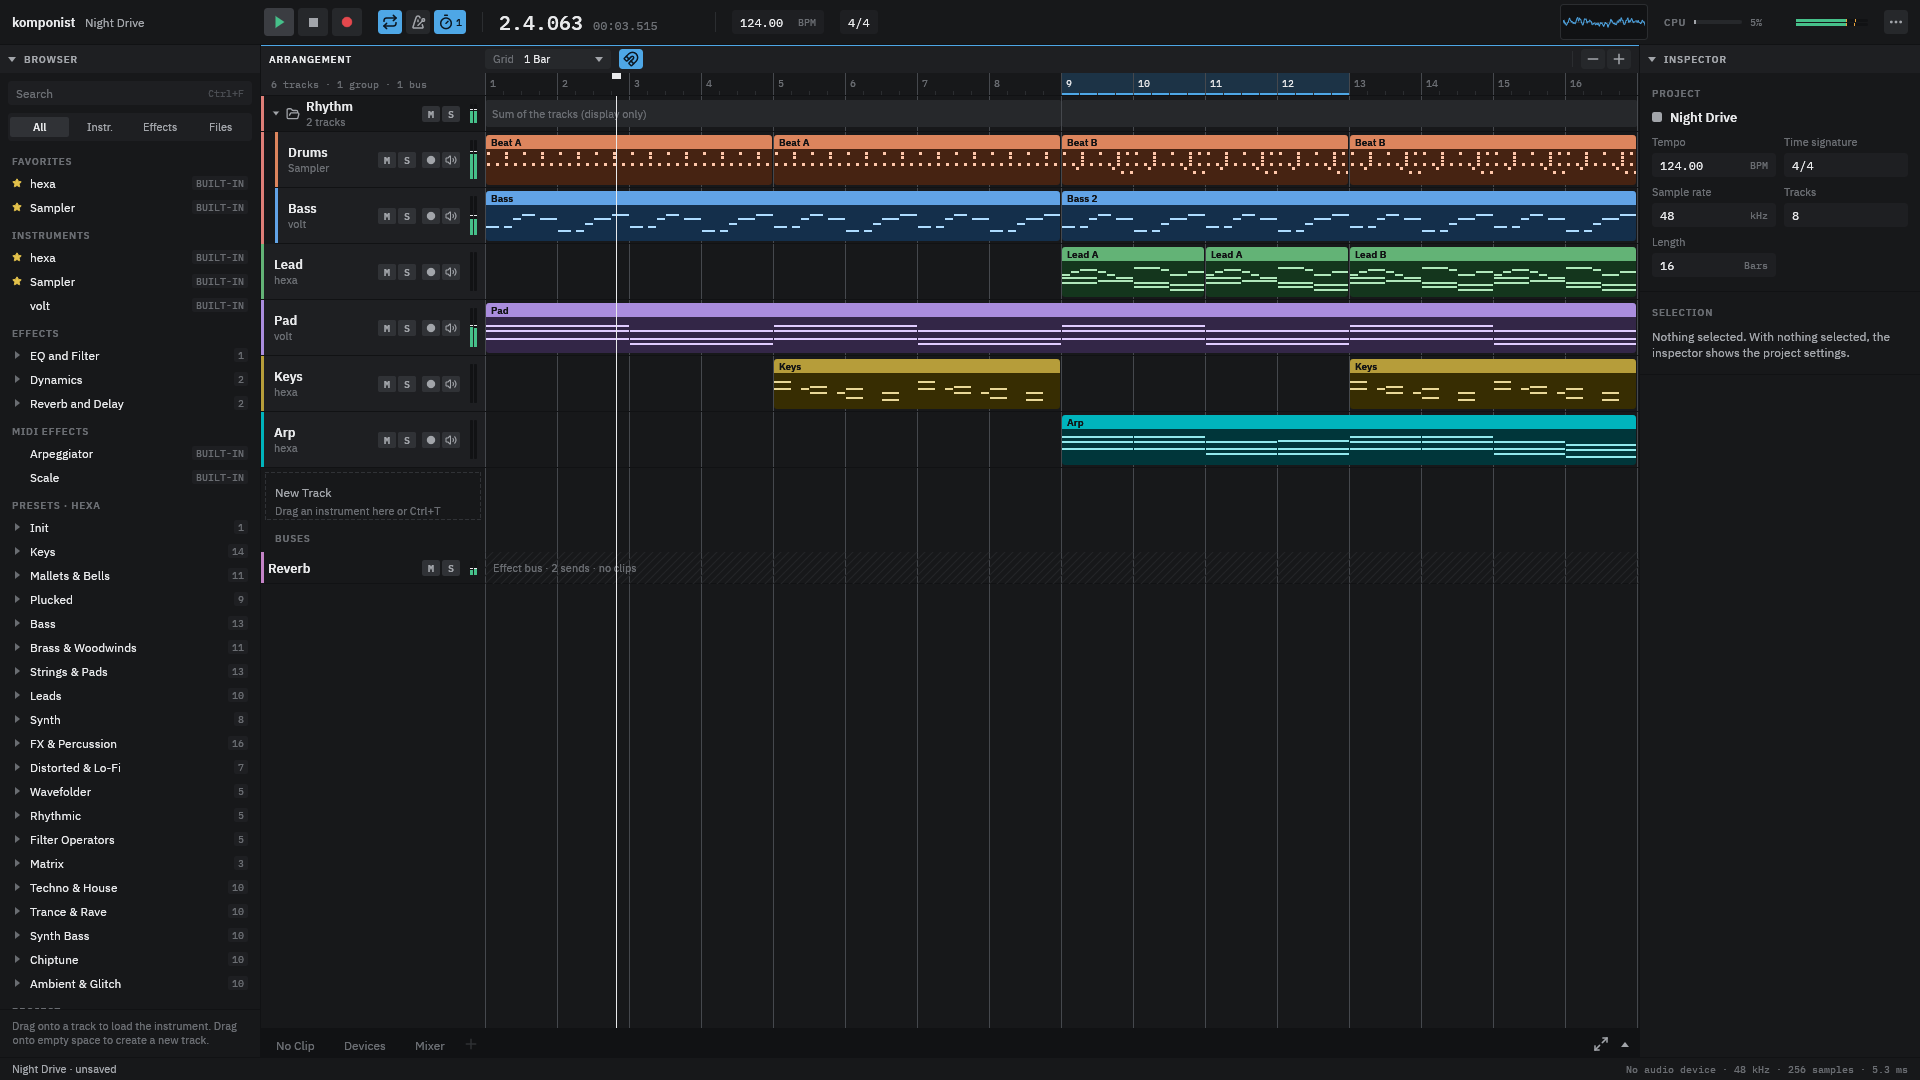
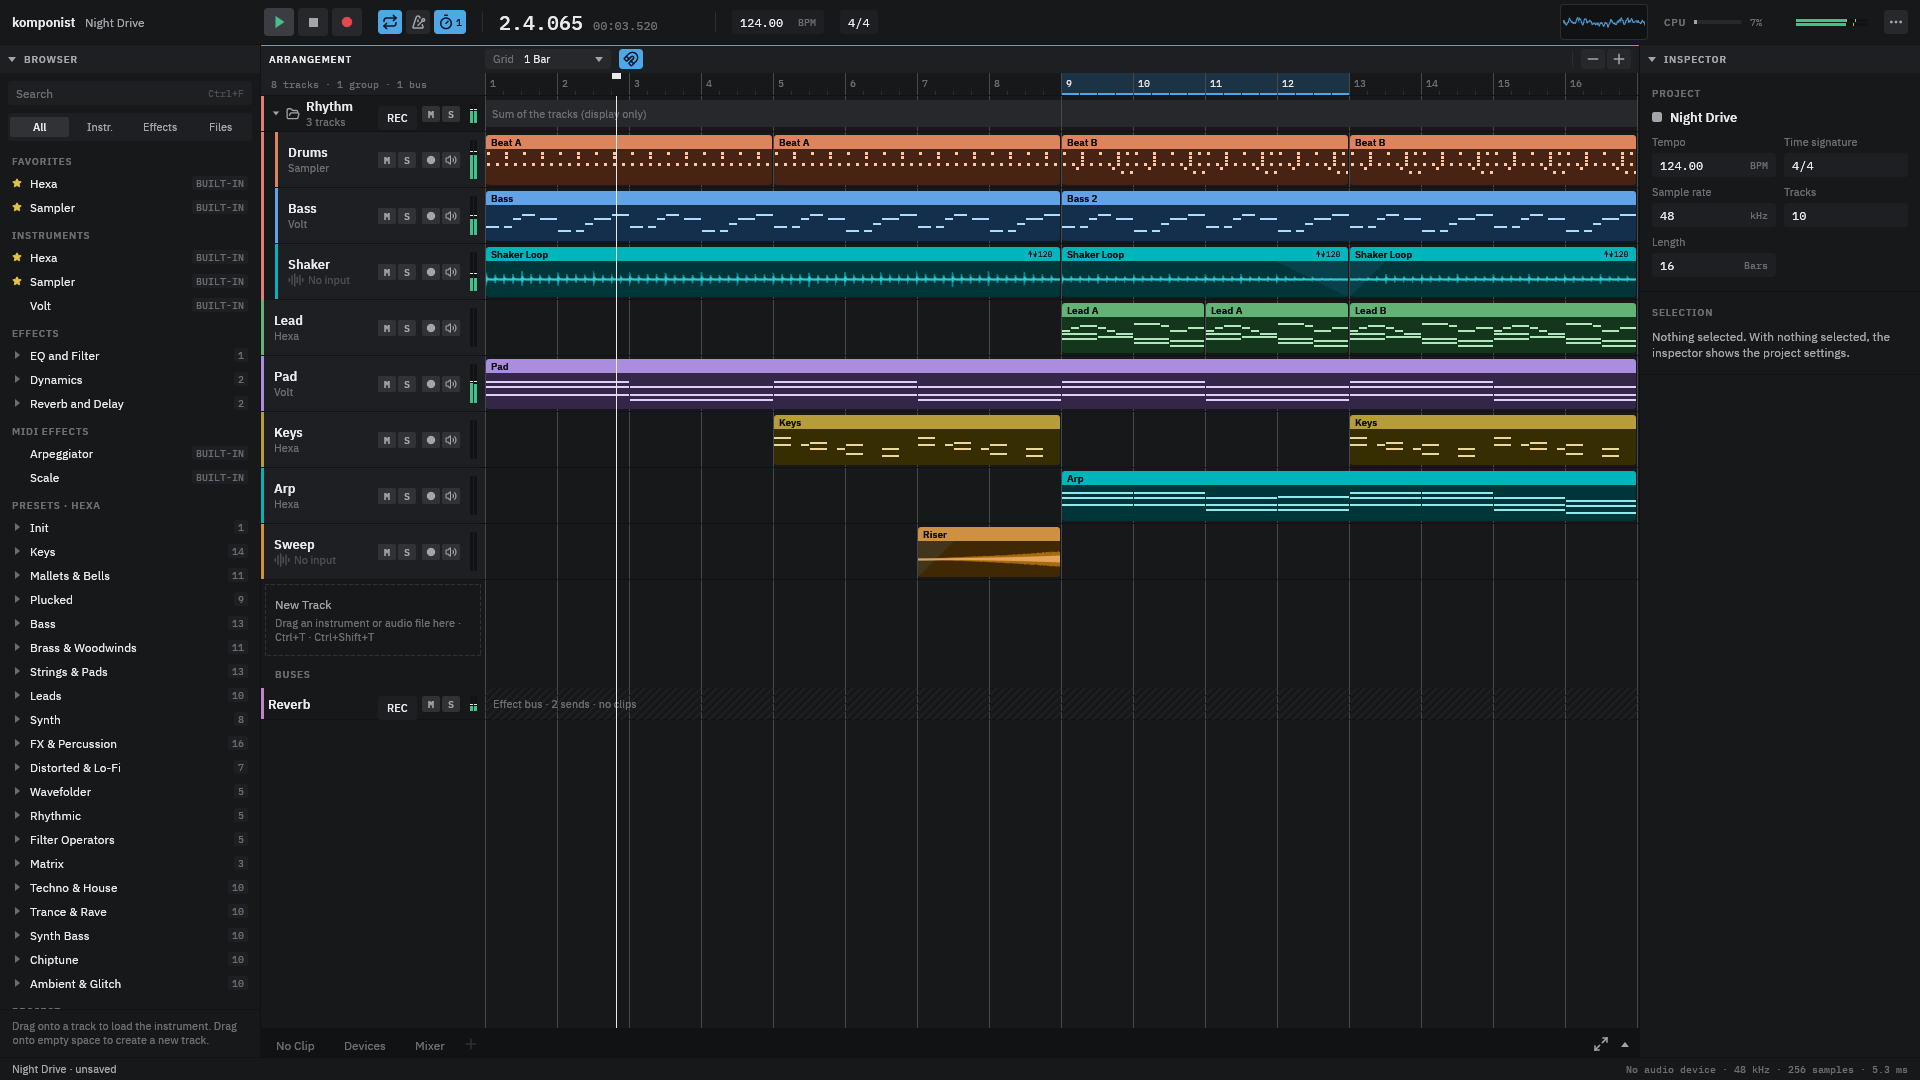
Document audio editing and recording with focused README media

diff --git a/scripts/readme-media/capture.py b/scripts/readme-media/capture.py
@@ -242,6 +242,12 @@ def dock_top(s):
     return int(s.bounds(role="Tab", label="Devices")["y"]) - 6
 
 
+def shot_dock(s, name):
+    """Capture the dock, including its tabs, without the browser, inspector or status bar."""
+    top = dock_top(s) + 4  # exclude the splitter and the last pixels of the arrangement above it
+    s.shot(name, crop=(DOCK_X, top, 1379, H - 22 - top))
+
+
 # -- scenarios ---------------------------------------------------------------------------------------------------------
 # Every scenario: a short docstring (printed), one fresh app, its own output files. GIF crops are (x, y, w, h) in
 # the 1920x1080 frame; the dock's top edge is read from the app, the rest is relative to it.
@@ -263,6 +269,34 @@ def arrangement(s):
     play(s)
     s.pause(3.5)
     s.shot("arrangement")
+    stop(s)
+
+
+def audio_editor(s):
+    """Linked audio: stereo source waveform, fades and clip properties (PNG)."""
+    s.click(role="Button", label="Collapse dock")
+    s.pause(0.5)
+    # An audio clip's centre is its gain line: double-clicking there resets gain instead of opening it.
+    b = s.bounds(role="GridCell", contains="Clip Riser,")
+    s.click_pos({"x": b["x"] + b["w"] / 2, "y": b["y"] + 8}, count=2)
+    s.click(role="Tab", label="Riser · Waveform")
+    open_dock(s, 450)
+    s.wait_for(role="Tab", label="Riser · Waveform")
+    s.pause(2.0)  # let the background waveform cache finish
+    shot_dock(s, "audio-editor")
+
+
+def audio_recording(s):
+    """Record the Rhythm bus into an audio track, with a live waveform (PNG)."""
+    s.click(role="Button", label="Record bus, Rhythm")
+    open_dock(s, 450)
+    s.click(role="Button", label="Count-in 1")
+    s.click(role="Button", label="Loop")
+    s.click(role="Button", label="Record")
+    s.wait_for(role="Group", label="Waveform · live")
+    s.pause(3.0)
+    s.find(role="Group", label="Waveform · live")
+    s.shot("audio-recording")
     stop(s)
 
 
@@ -372,13 +406,13 @@ def eq_spectrum(s):
 
 
 def mixer(s):
-    """Mixer tab with the arrangement above, playing (PNG)."""
+    """Only the mixer dock, playing (PNG)."""
     open_dock(s, 380)
     s.click(role="Tab", label="Mixer")
     s.click_pos({"x": 1068, "y": 83})
     play(s)
     s.pause(4.0)
-    s.shot("mixer")
+    shot_dock(s, "mixer")
     stop(s)
 
 
@@ -400,7 +434,8 @@ def add_device(s):
     s.gif("add-device", (DOCK_X + 300, top, 1340, 330), 1040, fps=12, trim=(0.4, None))
 
 
-SCENARIOS = [hero, arrangement, piano_roll, step_sequencer, devices, sidechain, eq_spectrum, mixer, add_device]
+SCENARIOS = [hero, arrangement, audio_editor, audio_recording, piano_roll, step_sequencer, devices,
+             sidechain, eq_spectrum, mixer, add_device]
 
 
 def main():

diff --git a/README.md b/README.md
@@ -6,21 +6,22 @@
   </picture>
 </p>
 
-<p align="center"><b>A MIDI DAW for Linux, macOS and Windows. Fast, small, and made for writing music.</b></p>
+<p align="center"><b>An audio and MIDI DAW for Linux, macOS and Windows. Fast, small, and made for writing music.</b></p>
 
 <p align="center">
   <a href="https://github.com/klang-studio/komponist/actions/workflows/ci.yml"><img alt="CI" src="https://github.com/klang-studio/komponist/actions/workflows/ci.yml/badge.svg"></a>
   <a href="LICENSE"><img alt="License: GPL-3.0-or-later" src="https://img.shields.io/badge/license-GPL--3.0--or--later-blue"></a>
   <img alt="Platform: Linux, macOS and Windows" src="https://img.shields.io/badge/platform-Linux%20%7C%20macOS%20%7C%20Windows-informational">
-  <img alt="Status: early, v0.2" src="https://img.shields.io/badge/status-early%20(v0.2)-orange">
+  <img alt="Status: early development" src="https://img.shields.io/badge/status-early%20development-orange">
   <img alt="Written in Rust" src="https://img.shields.io/badge/written%20in-Rust-b7410e">
 </p>
 
 ![komponist with the demo project "Night Drive": arrangement, piano roll and track meters while the transport plays](docs/media/hero.png)
 
-komponist is a MIDI DAW written in Rust with [egui](https://github.com/emilk/egui). You arrange clips, edit notes and
-steps, shape sounds with built-in instruments and effects, host CLAP and VST3 plugins, and mix it all on the same
-screen. Everything above is the demo project that ships with the app (`komponist --demo`). The interface is available in
+komponist is an audio and MIDI DAW written in Rust with [egui](https://github.com/emilk/egui). You arrange audio and MIDI
+clips, edit waveforms, notes and steps, record inputs and buses, shape sounds with built-in instruments and effects,
+host CLAP and VST3 plugins, and mix it all on the same screen. Everything above is the demo project that ships with
+the app (`komponist --demo`). The interface is available in
 English and German; it follows your desktop language, and Settings › Appearance (or `--lang de|en`) switches it.
 
 ## Features
@@ -28,7 +29,7 @@ English and German; it follows your desktop language, and Settings › Appearanc
 ### Arrangement, piano roll, step sequencer
 
 Arrange MIDI, step and linked audio clips on tracks, with a snapping grid, loop range, split, duplicate, and a full undo history.
-Open a clip in the dock below to edit it. Audio tracks stream WAV, AIFF, FLAC, MP3 and OGG files with sample-rate conversion, Re-Pitch, clip gain and linear fades. Import linked files with Ctrl+I; Ctrl+Shift+T opens the audio-track dialog.
+Open a clip in the dock below to edit it. The demo includes a mono Shaker loop and a stereo Sweep alongside the instruments.
 
 ![The arrangement of the demo project with the playhead running](docs/media/arrangement.png)
 
@@ -39,6 +40,32 @@ The piano roll has pointer, pencil and eraser tools, a velocity lane, quantize a
 The step sequencer is made for drums and Sampler kits. Toggle steps while the pattern plays:
 
 ![Toggling steps in the step sequencer while the pattern loops](docs/media/step-sequencer.gif)
+
+### Audio tracks and clip editing
+
+Import **WAV, AIFF, FLAC, MP3 and OGG** files with **Ctrl+I**, or drag an audio file from the browser into the
+arrangement. **Ctrl+Shift+T** opens the audio-track dialog. Files stay linked to their sources; **Collect and Save**
+copies supported audio sources into the project folder for moving or sharing a session.
+
+The waveform editor shows mono and stereo sources. Trim clips, change their source start, adjust clip gain and linear
+fades, and use **Re-Pitch** to follow the project tempo from an original BPM or bar count. Edits leave the source file
+intact. Missing files keep their clips and can be relinked with **Replace File…**.
+
+![The waveform editor in the dock, showing the stereo Sweep with its fade-in and clip controls](docs/media/audio-editor.png)
+
+### Audio recording and takes
+
+Choose a hardware input or a bus, arm an audio track and press **R** to record. Inputs can be mono or stereo, with
+**Off**, **Auto (When Armed)** and **On** monitoring. Settings › Audio selects the input device and recording format:
+**24-bit WAV** or **32-bit Float WAV**.
+
+The arrangement and waveform dock show the recording as it grows. **Record Bus** creates an audio track fed by a
+group or effect bus; the example below records the demo's Rhythm group without an external input:
+
+![Recording the Rhythm bus into an audio track, with the live waveform and input levels](docs/media/audio-recording.png)
+
+Loop passes become takes in the same clip. Choose, rename or remove takes in the inspector. Recordings made before
+the project is saved stay in a temporary folder and move into the project when you save.
 
 ### Built-in instruments
 
@@ -82,7 +109,7 @@ komponist hosts **CLAP** and **VST3** plugins. Every plugin runs in a bridge pro
 does not take your project down with it. Plugin windows open as native windows: X11 on Linux, a window of the plugin's
 bridge on macOS and Windows.
 
-### Mixer, routing, recording
+### Mixer, routing and MIDI recording
 
 - Record MIDI from any connected MIDI input (or the computer keyboard) into a take.
 - Route tracks into **groups** (Ctrl+G) and **effect buses** with pre/post-fader sends; sidechain Presse, or a CLAP or
@@ -92,17 +119,18 @@ bridge on macOS and Windows.
 
 The mixer shows every track with its inserts, sends, pan, mute/solo, faders and level meters. The group (named Rhythm in the demo) and the effect bus (named Reverb) have strips of their own on the right, next to the master channel:
 
-![The mixer with the arrangement above it, playing](docs/media/mixer.png)
+![The mixer dock with tracks, group, effect bus and master channel while playing](docs/media/mixer.png)
 
 ## Status
 
-komponist is **early software (v0.2)**. The MIDI workflow works end to end: arrange, edit, play, record, mix, save,
-export. Expect rough edges and file-format changes.
+komponist is **early software**. The current development version covers audio and MIDI workflows: arrange, edit,
+play, record, mix, save and export. Expect rough edges and file-format changes; released builds may have fewer features.
 
-What works: MIDI and step clips, piano roll, step sequencer, Hexa / Volt / Sampler, the built-in effects, sidechains
-(also into CLAP and VST3 plugins with a sidechain input), CLAP and VST3 hosting, mixer with groups, buses and sends, recording, undo and redo, project files, export.
+What works: audio, MIDI and step clips; waveform, piano roll and step editors; audio and MIDI recording with takes;
+Hexa / Volt / Sampler; built-in effects; sidechains (also into CLAP and VST3 plugins with a sidechain input); CLAP and
+VST3 hosting; mixer with groups, buses and sends; undo and redo; project files, linked audio, Collect and Save, and export.
 
-What is coming: **audio tracks**, automation.
+What is coming: automation.
 
 ## Install
 
@@ -147,10 +175,13 @@ The pictures in this README come from the demo project and are produced by a scr
 ```bash
 scripts/readme-media.sh            # everything into docs/media/
 scripts/readme-media.sh hero mixer # only these scenarios
+scripts/readme-media.sh audio_editor audio_recording # waveform editor and live recording
 ```
 
 It runs komponist in English (`--lang en`) under a private Xvfb with `--null-audio` (no audio or MIDI hardware, no
-sound) and drives the UI through its accessibility tree. It needs `xvfb-run`, `ffmpeg`, ImageMagick, Python 3 and `egui-mcp`.
+sound) and drives the UI through its accessibility tree. The recording scenario captures the Rhythm bus with the
+loop and count-in switched off. It needs `xvfb-run`, `ffmpeg`, ImageMagick, Python 3 and `egui-mcp`.
+If Vulkan cannot present through your local Xvfb, use `WGPU_BACKEND=gl scripts/readme-media.sh`.
 
 ## Architecture
 
